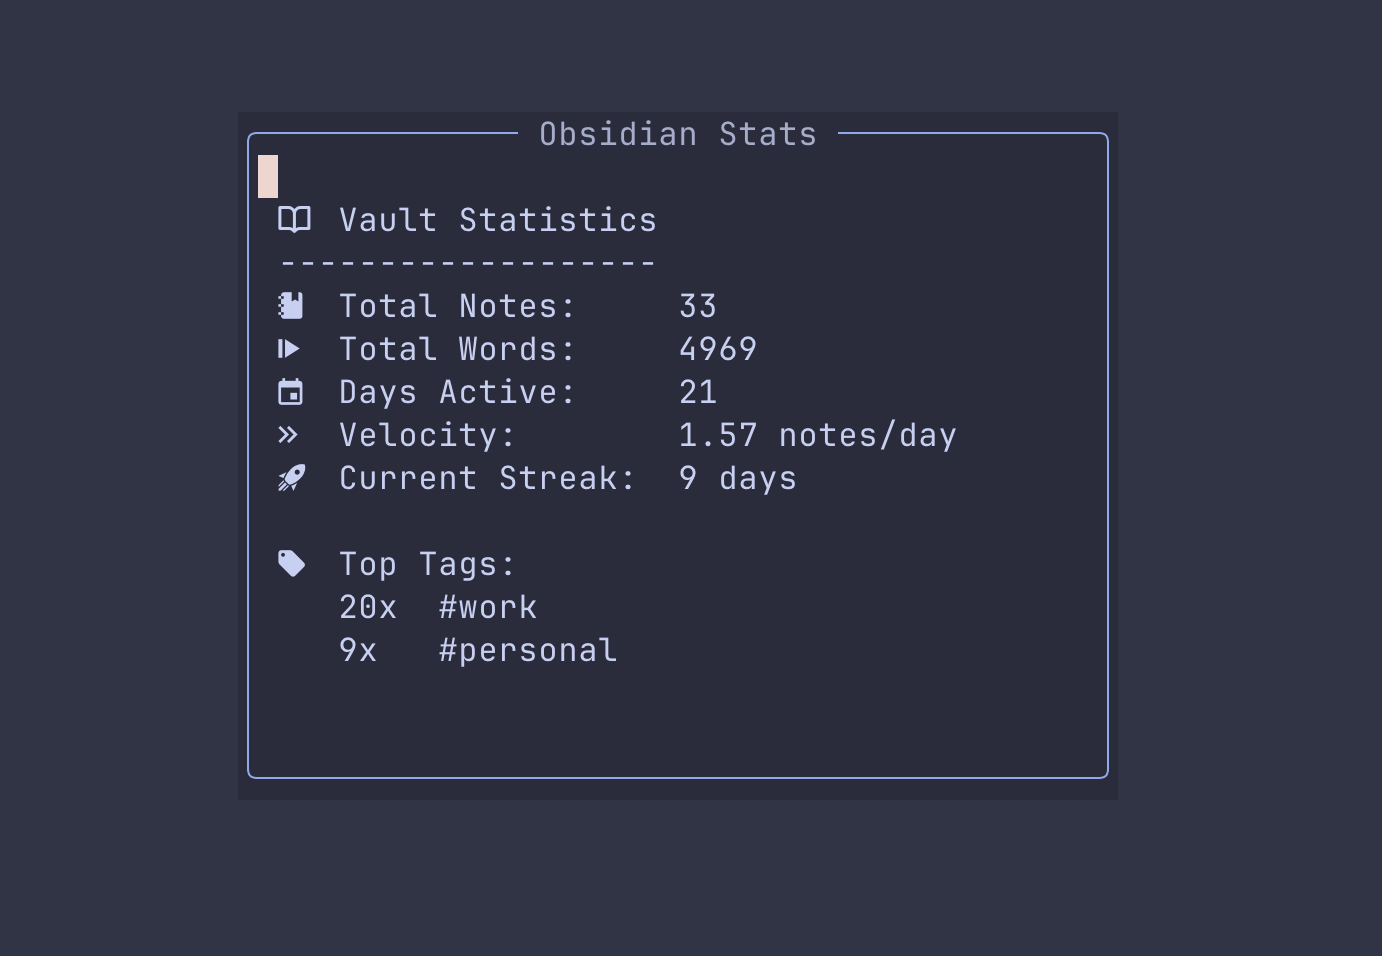
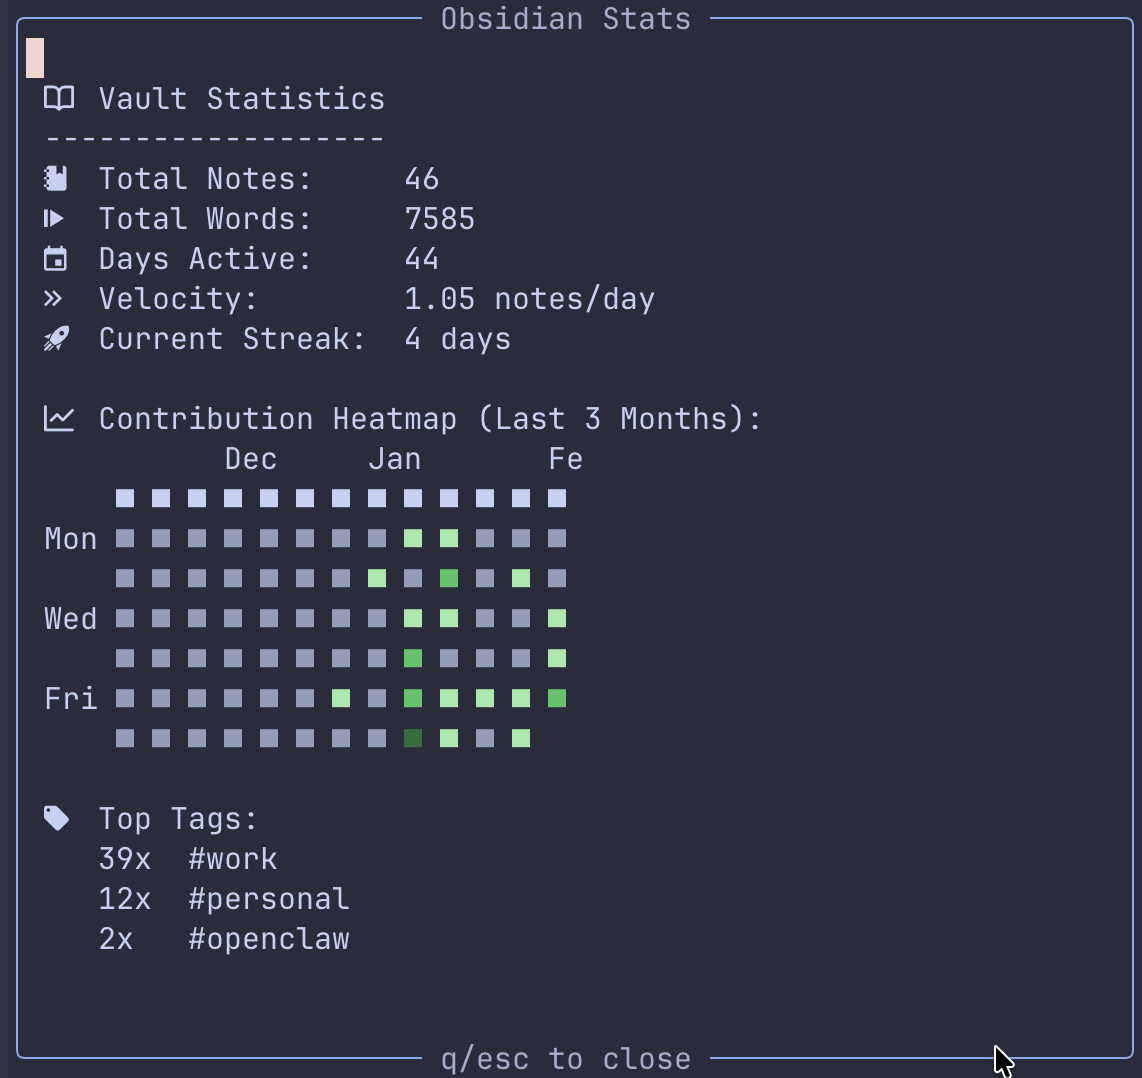
implement a heatmap of touches on notes

diff --git a/README.md b/README.md
@@ -11,6 +11,7 @@ A simple Neovim plugin to display statistics for your Obsidian vault.
 - Days Active (based on oldest file creation)
 - Velocity (notes per day)
 - Current Writing Streak
+- Contribution Heatmap (last 2 months or year)
 - Top 3 Tags
 
 ## Requirements
@@ -52,5 +53,13 @@ Default configuration:
 ```lua
 require("obsidian-stats").setup({
   vault_path = "~/vaults/second-brain",
+  heatmap = {
+    range = "3_months", -- or "6_months", "9_months", "1_year"
+    activity = "modified", -- or "created" or "both"
+  },
+  sections = {
+    weekly_chart = true, -- legacy toggle for the heatmap
+    -- heatmap = true, -- optional explicit toggle (overrides weekly_chart)
+  },
 })
 ```
